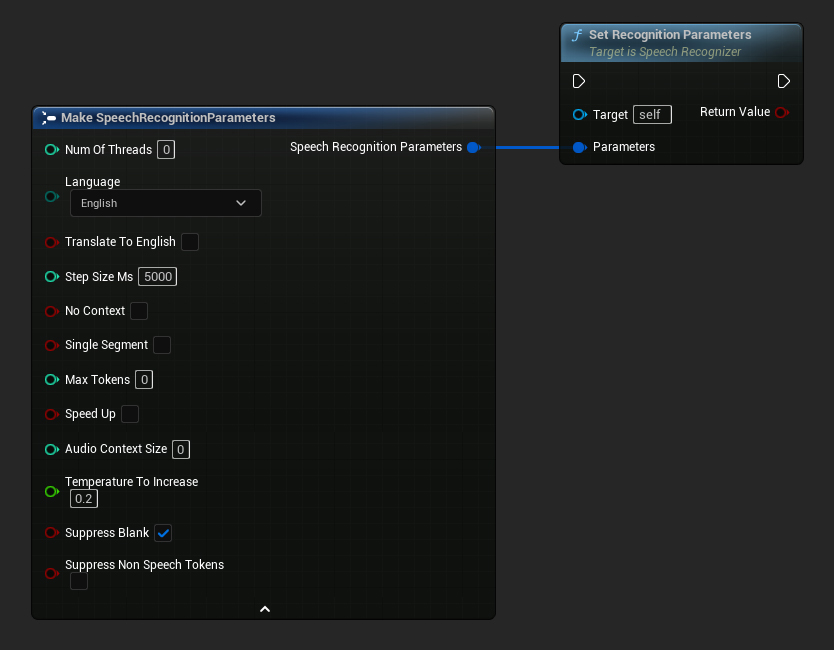
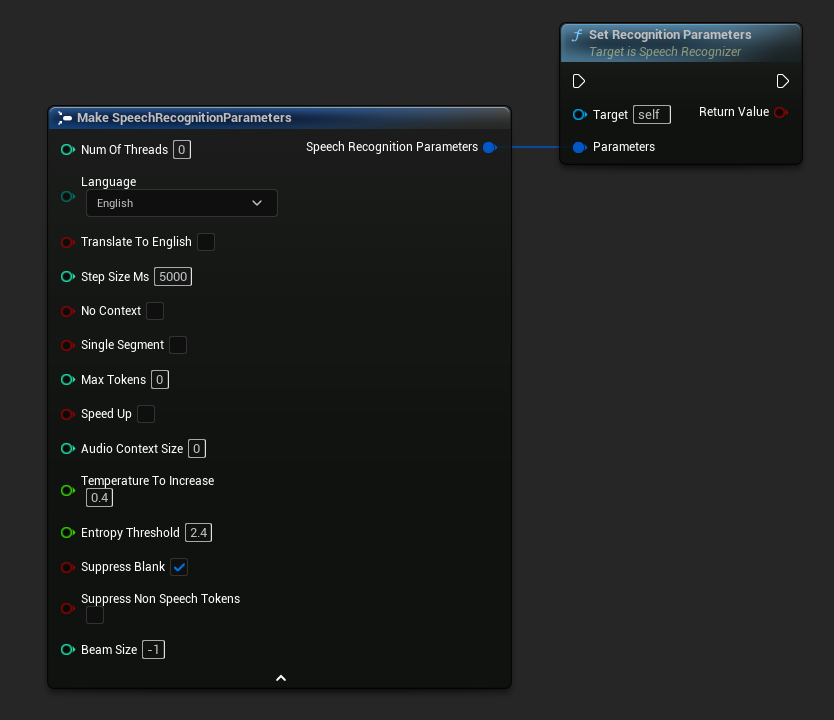
Update whisper.cpp to the latest version (improved performance); set the default `TemperatureToIncrease` to `0.4`; add `EntropyThreshold` and `BeamSize` parameters to be customizable

diff --git a/Source/ThirdParty/whisper.cpp/whisper.cpp b/Source/ThirdParty/whisper.cpp/whisper.cpp
@@ -2347,6 +2347,23 @@ static std::string to_timestamp(int64_t t, bool comma = false) {
     return std::string(buf);
 }
 
+#define SIN_COS_N_COUNT WHISPER_N_FFT
+static float sin_vals[SIN_COS_N_COUNT];
+static float cos_vals[SIN_COS_N_COUNT];
+
+// In FFT, we frequently use sine and cosine operations with the same values. 
+// We can use precalculated values to speed up the process.
+static void fill_sin_cos_table() {
+    static bool is_filled = false;
+    if (is_filled) return;
+    for (int i = 0; i < SIN_COS_N_COUNT; i++) {
+        double theta = (2*M_PI*i)/SIN_COS_N_COUNT;
+        sin_vals[i] = sinf(theta);
+        cos_vals[i] = cosf(theta);
+    }
+    is_filled = true;
+}
+
 // naive Discrete Fourier Transform
 // input is real-valued
 // output is complex-valued
@@ -2354,15 +2371,16 @@ static void dft(const std::vector<float> & in, std::vector<float> & out) {
     int N = in.size();
 
     out.resize(N*2);
+    const int sin_cos_step = SIN_COS_N_COUNT / N;
 
     for (int k = 0; k < N; k++) {
         float re = 0;
         float im = 0;
 
         for (int n = 0; n < N; n++) {
-            float angle = 2*M_PI*k*n/N;
-            re += in[n]*cos(angle);
-            im -= in[n]*sin(angle);
+            int idx = (k * n * sin_cos_step) % (SIN_COS_N_COUNT); // t = 2*M_PI*k*n/N
+            re += in[n]*cos_vals[idx]; // cos(t)
+            im -= in[n]*sin_vals[idx]; // sin(t)
         }
 
         out[k*2 + 0] = re;
@@ -2410,11 +2428,11 @@ static void fft(const std::vector<float> & in, std::vector<float> & out) {
     fft(even, even_fft);
     fft(odd, odd_fft);
 
+    const int sin_cos_step = SIN_COS_N_COUNT / N;
     for (int k = 0; k < N/2; k++) {
-        float theta = 2*M_PI*k/N;
-
-        float re = cos(theta);
-        float im = -sin(theta);
+        int idx = k * sin_cos_step; // t = 2*M_PI*k/N
+        float re = cos_vals[idx]; // cos(t)
+        float im = -sin_vals[idx]; // sin(t)
 
         float re_odd = odd_fft[2*k + 0];
         float im_odd = odd_fft[2*k + 1];
@@ -2694,6 +2712,7 @@ static std::string whisper_openvino_get_path_cache(std::string path_bin) {
 #endif
 
 struct whisper_state * whisper_init_state(whisper_context * ctx) {
+    fill_sin_cos_table();
     whisper_state * state = new whisper_state;
 
     const size_t scale = ctx->model.hparams.ftype ? 1 : 2;

diff --git a/Source/RuntimeSpeechRecognizer/Public/SpeechRecognizerThread.h b/Source/RuntimeSpeechRecognizer/Public/SpeechRecognizerThread.h
@@ -122,7 +122,11 @@ struct FSpeechRecognitionParameters
 
 	/** The temperature to increase when falling back when the decoding fails to meet either of the thresholds below */
 	UPROPERTY(BlueprintReadWrite, Category = "Runtime Speech Recognizer")
-	float TemperatureToIncrease = 0.2f;
+	float TemperatureToIncrease = 0.4f;
+
+	/** If the compression ratio is higher than this value, treat the decoding as failed. Similar to OpenAI's "compression_ratio_threshold" */
+	UPROPERTY(BlueprintReadWrite, Category = "Runtime Speech Recognizer")
+	float EntropyThreshold = 2.4f;
 
 	/** Whether to suppress blanks showing up in outputs */
 	UPROPERTY(BlueprintReadWrite, Category = "Runtime Speech Recognizer")
@@ -131,6 +135,10 @@ struct FSpeechRecognitionParameters
 	/** Whether to suppress non speech tokens in outputs */
 	UPROPERTY(BlueprintReadWrite, Category = "Runtime Speech Recognizer")
 	bool bSuppressNonSpeechTokens = false;
+	
+	/** Number of beams in beam search, only applicable when temperature is zero */
+	UPROPERTY(BlueprintReadWrite, Category = "Runtime Speech Recognizer")
+	int32 BeamSize = -1.f;
 
 	/**
 	 * Sets the default parameters suitable for non-streaming speech recognition
@@ -342,6 +350,16 @@ public:
 	bool SetTemperatureToIncrease(float Value);
 
 	/**
+	 * Sets the entropy threshold
+	 * If the compression ratio is higher than this value, treat the decoding as failed. Similar to OpenAI's "compression_ratio_threshold"
+	 *
+	 * @param Value The entropy threshold
+	 * @return True if the setting was set successfully, false otherwise
+	 * @note Can only be called when the thread is stopped
+	 */
+	bool SetEntropyThreshold(float Value);
+
+	/**
 	 * Sets whether to suppress blanks showing up in outputs
 	 *
 	 * @param Value Whether to suppress blanks showing up in outputs
@@ -360,6 +378,14 @@ public:
 	 * @author https://github.com/amartinz
 	 */
 	bool SetSuppressNonSpeechTokens(bool Value);
+
+	/**
+	 * Set the number of beams in beam search. Only applicable when temperature is zero
+	 * 
+	 * @param Value The number of beams in beam search
+	 * @return True if the setting was set successfully, false otherwise
+	 */
+	bool SetBeamSize(int32 Value);
 
 private:
 	/**

diff --git a/Source/RuntimeSpeechRecognizer/Private/SpeechRecognizerThread.cpp b/Source/RuntimeSpeechRecognizer/Private/SpeechRecognizerThread.cpp
@@ -160,7 +160,7 @@ void FSpeechRecognitionParameters::SetNonStreamingDefaults()
 	bSingleSegment = false;
 	MaxTokens = 0;
 	AudioContextSize = 0;
-	TemperatureToIncrease = 0.2f;
+	TemperatureToIncrease = 0.4f;
 }
 
 void FSpeechRecognitionParameters::SetStreamingDefaults()
@@ -190,12 +190,15 @@ void FSpeechRecognitionParameters::FillWhisperStateParameters(FWhisperSpeechReco
 	WhisperState.WhisperParameters->max_tokens = MaxTokens;
 	WhisperState.WhisperParameters->audio_ctx = AudioContextSize;
 	WhisperState.WhisperParameters->temperature_inc = TemperatureToIncrease;
+	WhisperState.WhisperParameters->entropy_thold = EntropyThreshold;
 
 	WhisperState.WhisperParameters->language = EnumToString(Language);
 	WhisperState.WhisperParameters->n_threads = NumOfThreads > 0 ? NumOfThreads : (FPlatformProcess::SupportsMultithreading() ? FMath::Min(6, FPlatformMisc::NumberOfCoresIncludingHyperthreads()) : 1);
 
 	WhisperState.WhisperParameters->suppress_blank = bSuppressBlank;
 	WhisperState.WhisperParameters->suppress_non_speech_tokens = bSuppressNonSpeechTokens;
+
+	WhisperState.WhisperParameters->beam_search.beam_size = BeamSize;
 
 	WhisperState.WhisperParameters->speed_up = bSpeedUp;
 
@@ -700,6 +703,18 @@ bool FSpeechRecognizerThread::SetTemperatureToIncrease(float Value)
 	return true;
 }
 
+bool FSpeechRecognizerThread::SetEntropyThreshold(float Value)
+{
+	if (!GetIsStopped())
+	{
+		UE_LOG(LogRuntimeSpeechRecognizer, Error, TEXT("Unable to set entropy threshold while the thread is running"));
+		return false;
+	}
+
+	RecognitionParameters.EntropyThreshold = Value;
+	return true;
+}
+
 bool FSpeechRecognizerThread::SetSuppressBlank(bool Value)
 {
 	if (!GetIsStopped())
@@ -721,6 +736,18 @@ bool FSpeechRecognizerThread::SetSuppressNonSpeechTokens(bool Value)
 	}
 
 	RecognitionParameters.bSuppressNonSpeechTokens = Value;
+	return true;
+}
+
+bool FSpeechRecognizerThread::SetBeamSize(int32 Value)
+{
+	if (!GetIsStopped())
+	{
+		UE_LOG(LogRuntimeSpeechRecognizer, Error, TEXT("Unable to set beam size while the thread is running"));
+		return false;
+	}
+
+	RecognitionParameters.BeamSize = Value;
 	return true;
 }
 

diff --git a/Source/RuntimeSpeechRecognizer/Public/SpeechRecognizer.h b/Source/RuntimeSpeechRecognizer/Public/SpeechRecognizer.h
@@ -289,6 +289,17 @@ public:
 	bool SetTemperatureToIncrease(float Value);
 
 	/**
+	 * Sets the entropy threshold
+	 * If the compression ratio is higher than this value, treat the decoding as failed. Similar to OpenAI's "compression_ratio_threshold"
+	 *
+	 * @param Value The entropy threshold
+	 * @return True if the setting was set successfully, false otherwise
+	 * @note Can only be called when the thread is stopped
+	 */
+	UFUNCTION(BlueprintCallable, Category = "Runtime Speech Recognizer|Setters|Individual")
+	bool SetEntropyThreshold(float Value);
+
+	/**
 	 * Sets whether to suppress blanks showing up in outputs
 	 *
 	 * @param Value Whether to suppress blanks showing up in outputs
@@ -309,6 +320,15 @@ public:
 	 */
 	UFUNCTION(BlueprintCallable, Category = "Runtime Speech Recognizer|Setters|Individual")
 	bool SetSuppressNonSpeechTokens(bool Value);
+
+	/**
+	 * Set the number of beams in beam search. Only applicable when temperature is zero
+	 * 
+	 * @param Value The number of beams in beam search
+	 * @return True if the setting was set successfully, false otherwise
+	 */
+	UFUNCTION(BlueprintCallable, Category = "Runtime Speech Recognizer|Setters|Individual")
+	bool SetBeamSize(int32 Value);
 
 private:
 	/** The thread that handles speech recognition */

diff --git a/Source/RuntimeSpeechRecognizer/Private/SpeechRecognizer.cpp b/Source/RuntimeSpeechRecognizer/Private/SpeechRecognizer.cpp
@@ -144,6 +144,11 @@ bool USpeechRecognizer::SetTemperatureToIncrease(float Value)
 	return Thread->SetTemperatureToIncrease(Value);
 }
 
+bool USpeechRecognizer::SetEntropyThreshold(float Value)
+{
+	return Thread->SetEntropyThreshold(Value);
+}
+
 bool USpeechRecognizer::SetSuppressBlank(bool Value)
 {
 	return Thread->SetSuppressBlank(Value);
@@ -152,4 +157,9 @@ bool USpeechRecognizer::SetSuppressBlank(bool Value)
 bool USpeechRecognizer::SetSuppressNonSpeechTokens(bool Value)
 {
 	return Thread->SetSuppressNonSpeechTokens(Value);
+}
+
+bool USpeechRecognizer::SetBeamSize(int32 Value)
+{
+	return Thread->SetBeamSize(Value);
 }
